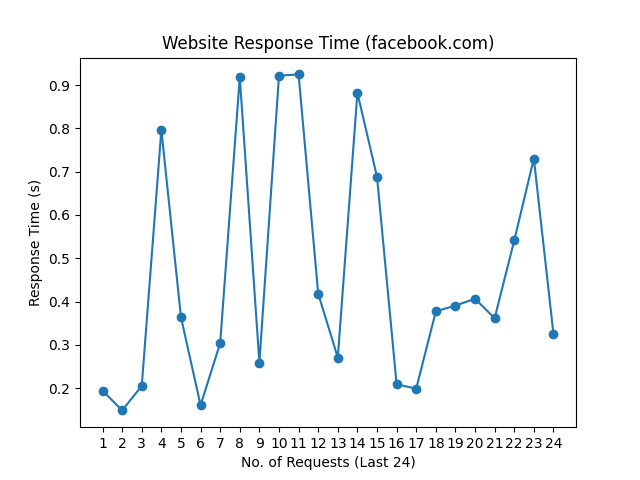
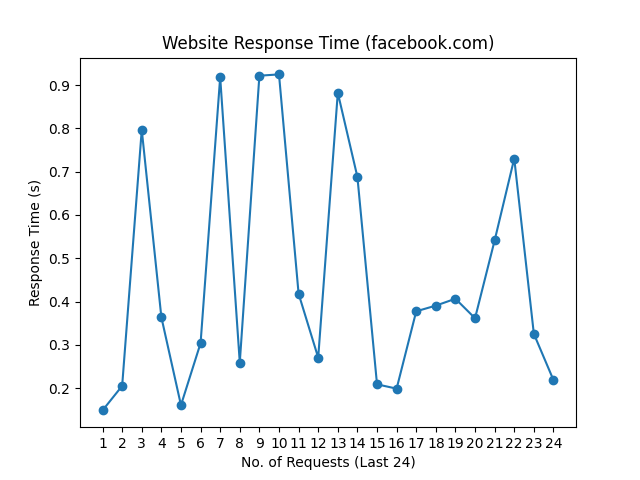
update README.md, history and graph

Changed region(s): [[0.1562, 0.125, 0.875, 0.875]]

diff --git a/README.md b/README.md
@@ -1,10 +1,10 @@
 # Web Monitoring
 
-Last Checked: 27/02/2025 08:20
+Last Checked: 28/02/2025 08:20
 
 | Website | Response Time (s) | Status | Avg Uptime (%) |
 |---------|-------------------|--------|----------------|
 | www.thiswebsiteisdown.net | 0 <br> <img src="graph/thiswebsiteisdown.net.png" alt="Graph" width="200" height="200">  | ❌ Down | 0.00 |
-| www.netflix.com | 1.542937 <br> <img src="graph/netflix.com.png" alt="Graph" width="200" height="200">  | ✅ Up | 99.82 |
-| www.google.com | 0.079573 <br> <img src="graph/google.com.png" alt="Graph" width="200" height="200">  | ✅ Up | 100.00 |
-| www.facebook.com | 0.325457 <br> <img src="graph/facebook.com.png" alt="Graph" width="200" height="200">  | ✅ Up | 100.00 |
+| www.netflix.com | 0.636567 <br> <img src="graph/netflix.com.png" alt="Graph" width="200" height="200">  | ✅ Up | 99.82 |
+| www.google.com | 0.083056 <br> <img src="graph/google.com.png" alt="Graph" width="200" height="200">  | ✅ Up | 100.00 |
+| www.facebook.com | 0.218682 <br> <img src="graph/facebook.com.png" alt="Graph" width="200" height="200">  | ✅ Up | 100.00 |
